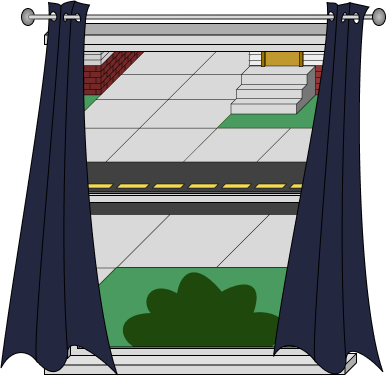
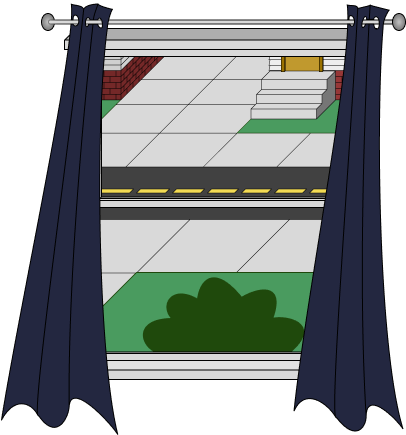
added window toggle

diff --git a/src/components/Room.jsx b/src/components/Room.jsx
@@ -7,19 +7,42 @@ import shelf from "../assets/shelf.png";
 import bookshelf from "../assets/Bookshelf.png"
 import background from "../assets/Background.png"
 import setup from "../assets/Setup.png"
-import openWindow from "../assets/window.png"
-import {useState} from "react"
+import windowOpened from "../assets/windowOpened.png"
+import windowClosed from "../assets/windowClosed.png"
+import { useState, useEffect } from "react";
 
 export default function Room() {
-  // const [darkMode, setDarkMode] = useState(false)
+  const [darkMode, setDarkMode] = useState(false)
   const nav = useNavigate()
+
+  useEffect (() => {
+    if (!darkMode && document.body.style.backgroundColor == "rgb(205, 186, 209)") {
+      toggleDarkMode()
+    }
+  },[])
+
+  function toggleDarkMode() {
+    const styling = document.body.style
+    if (darkMode) {
+      setDarkMode(false)
+      styling.backgroundColor = "#f1dcf5"
+      styling.filter = "brightness(100%)"
+      // document.body.classList.remove('darkmode')
+    }
+    else {
+      setDarkMode(true)
+      styling.backgroundColor = "#cdbad1"
+      styling.filter = "brightness(25%)"
+      // document.body.classList.add('darkmode')
+    }
+  }
 
   return (
     <div className='wall'>
       <div className="absolute left-0 bottom-0">
         <img src={background}></img>
       </div>
-      <Light />
+      <Light darkMode={darkMode} toggleDarkMode={toggleDarkMode}/>
       <div className='name'>
         <div className='blockLetters'>&nbsp;DARAUS ZHANG</div>
         {/* <div className='shelf bg-amber-800 w-64 h-3'></div> */}
@@ -32,7 +55,7 @@ export default function Room() {
         <img className="highlight overflow-hidden" src={bookshelf} style={{ cursor: 'pointer' }} onClick={() => {nav("/bookshelf")}}></img>
       </div>
       <div className="window">
-        <img src={openWindow}></img>
+        {darkMode ? <img src={windowClosed}></img> : <img src={windowOpened}></img>} 
       </div>
       <div className="setup">
         <img className="highlight" src={setup} onClick={() => {nav("/projects")}}></img>

diff --git a/src/components/Light.jsx b/src/components/Light.jsx
@@ -2,30 +2,7 @@ import { useState, useEffect } from "react";
 import lightOn from "../assets/LightOn.png"
 import lightOff from "../assets/LightOff.png"
 
-export default function Light() {
-  const [darkMode, setDarkMode] = useState(false)
-
-  useEffect (() => {
-    if (!darkMode && document.body.style.backgroundColor == "rgb(205, 186, 209)") {
-      toggleDarkMode()
-    }
-  },[])
-
-  function toggleDarkMode() {
-    const styling = document.body.style
-    if (darkMode) {
-      setDarkMode(false)
-      styling.backgroundColor = "#f1dcf5"
-      styling.filter = "brightness(100%)"
-      // document.body.classList.remove('darkmode')
-    }
-    else {
-      setDarkMode(true)
-      styling.backgroundColor = "#cdbad1"
-      styling.filter = "brightness(25%)"
-      // document.body.classList.add('darkmode')
-    }
-  }
+export default function Light({darkMode, toggleDarkMode}) {
 
   return (
     darkMode ? 
